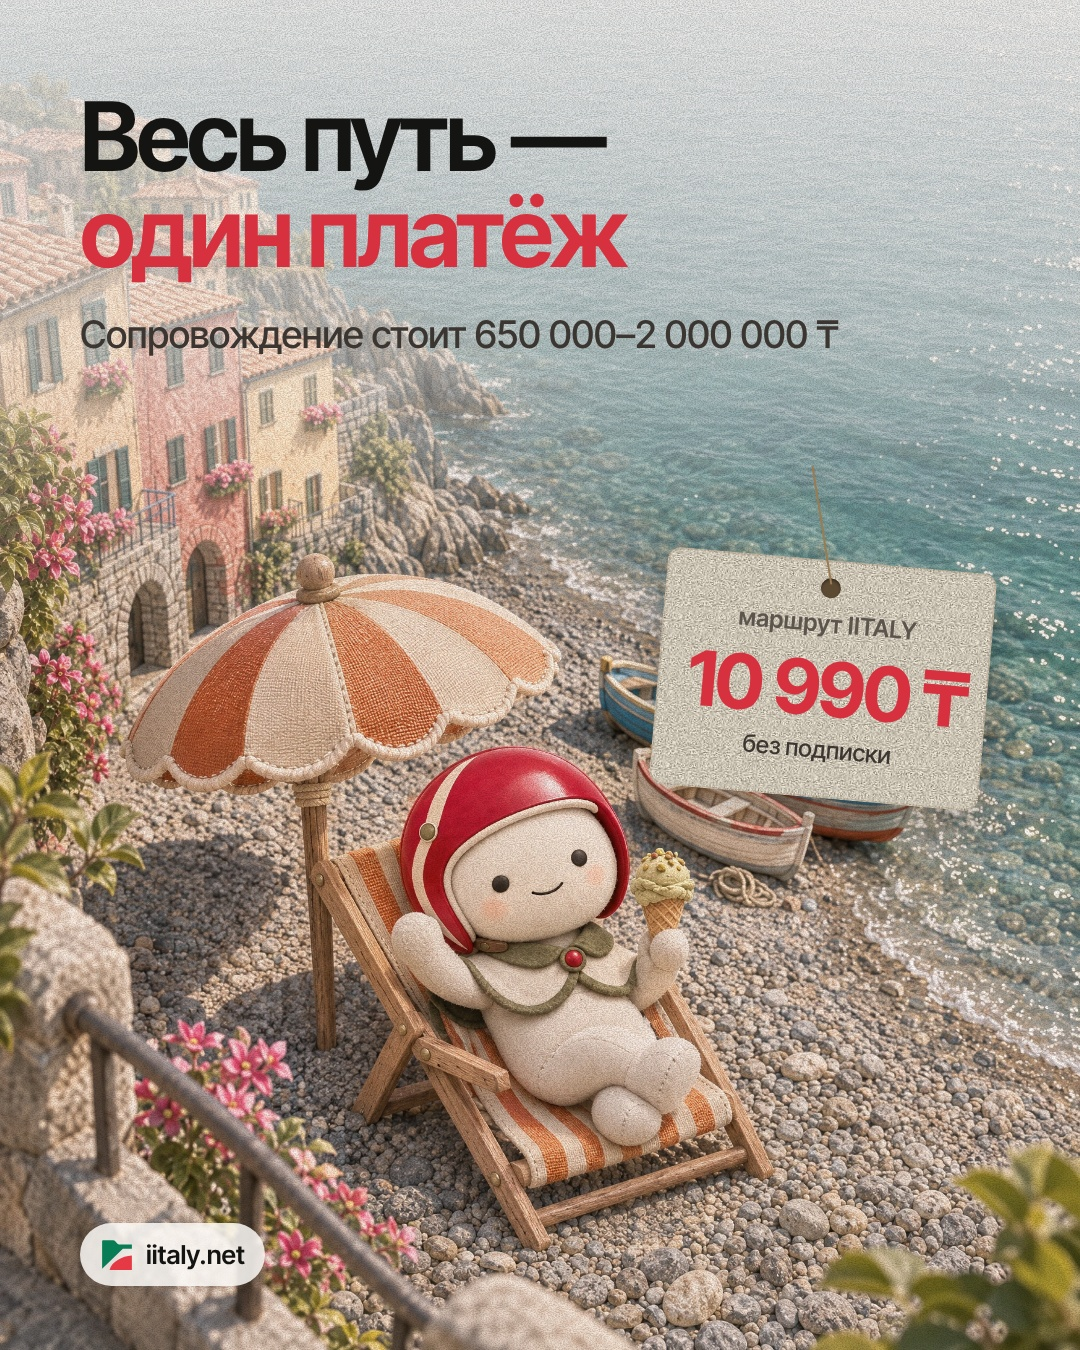
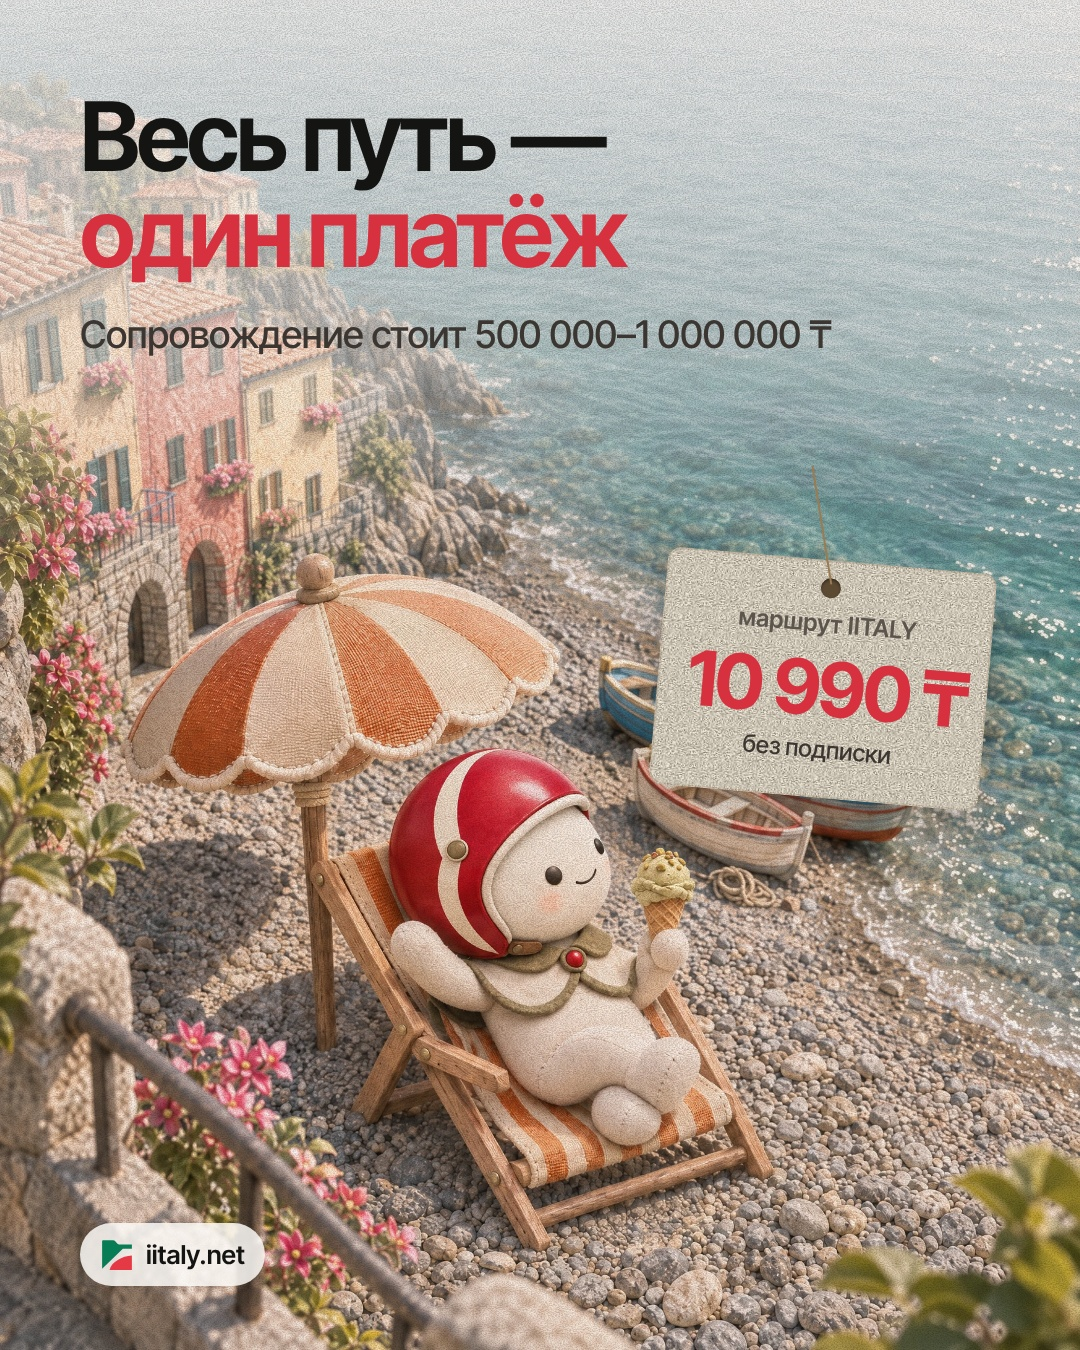
Agency range 500 000–1 000 000 ₸; Vespi looks at the sea on slide 1-5
Owner, 15 Nov: «сделай новый диапазон 500 000 — миллион». The comparison
row now reads «Сопровождение — обычно 500 000–1 000 000 ₸»; the approved
copy change in scripts/design-content.mjs, the docs, slide 1-5 and the
post 1 caption follow it.

Slide 1-5: «Веспи не должен пялиться». The Cinque Terre scene is edited so
Vespi turns his head toward the sea and the boats instead of looking into
the camera (job 0ca1c8fa…, muted like the rest of the set).

Claude-Session: https://claude.ai/code/session_01EJf3uoJW8TN46ucPCkbbdr

diff --git a/src/components/home/DocumentCheckFeature.tsx b/src/components/home/DocumentCheckFeature.tsx
@@ -22,12 +22,10 @@ import styles from "./document-check-feature.module.css";
    берут 650 000 – 1 000 000 ₸»), показать её он подтвердил 14 Nov: «Да,
    добавь». Прежняя строка «Отдельный договор с агентством» остаётся,
    цена идёт под ней: design-content сверяет весь прежний текст.
-   15 Nov верх поднят до 2 000 000 ₸ (владелец: «есть нахуй агентство за
-   2 миллиона… есть люди, которые делают за поменьше, которые просто один
-   человек, не агентство»): 650 000 ₸ — частный консультант, 2 000 000 ₸ —
-   агентство. Замена разрешена в design-content.mjs. */
+   15 Nov владелец задал новый диапазон: «сделай новый диапазон 500 000 —
+   миллион». Замена разрешена в design-content.mjs. */
 
-const AGENCY_SUPPORT = { from: 650_000, to: 2_000_000 };
+const AGENCY_SUPPORT = { from: 500_000, to: 1_000_000 };
 
 const FACTS = [
   { icon: Timer, value: "10–30 секунд", label: "обычно до ответа", note: "Без очереди и записи к менеджеру." },

diff --git a/design/social/README.md b/design/social/README.md
@@ -137,7 +137,7 @@ B и C сделаны правкой сцены A той же моделью (hi
 — стипендия DSU: посчитаем шансы по доходу семьи ещё до подачи
 — виза D пошагово
 
-Сопровождение у консультантов и агентств стоит 650 000–2 000 000 ₸. Здесь — один платёж 10 990 ₸ за весь путь, без подписки. Анкета и план — бесплатно.
+Сопровождение у консультантов и агентств стоит 500 000–1 000 000 ₸. Здесь — один платёж 10 990 ₸ за весь путь, без подписки. Анкета и план — бесплатно.
 
 Ссылка в профиле: iitaly.net
 
@@ -228,7 +228,6 @@ Alt-текст обложки: Тосканские холмы на рассве
 - **Цифры:**
   - 43 вуза в 30 городах — `src/data/italy.ts`;
   - 10 990 ₸ — `src/data/pricing.ts`;
-  - 650 000–2 000 000 ₸ за сопровождение — владелец, 15 ноября: частный
-    консультант от 650 000 ₸, агентство до 2 000 000 ₸;
+  - 500 000–1 000 000 ₸ за сопровождение — диапазон владельца с 15 ноября;
   - 10–30 секунд — замер 12 ноября на живом сервере;
   - что открыто бесплатно — таблица «бесплатно / платно» в `NEXT_CHAT.md`.

diff --git a/DESIGN.md b/DESIGN.md
@@ -1751,11 +1751,10 @@ range he has named since the start (NEXT_CHAT.md). It sits under the contract
 line rather than replacing it, because design-content checks that every
 earlier line of copy is still on the page.
 
-On 15 November the owner raised the top of the range to 2 000 000 ₸: an
-agency charges up to that, a single consultant less («есть люди, которые
-делают за поменьше… просто один человек, не агентство»). The row now reads
-«Сопровождение — обычно 650 000–2 000 000 ₸»; the swap is listed among the
-approved copy changes in `scripts/design-content.mjs`.
+On 15 November the owner set a new range («сделай новый диапазон 500 000 —
+миллион»). The row now reads «Сопровождение — обычно 500 000–1 000 000 ₸»;
+the swap is listed among the approved copy changes in
+`scripts/design-content.mjs`.
 
 ## After the UX audit: the first question, touch hover, the chat button · 14 November 2026
 

diff --git a/HANDOFF.md b/HANDOFF.md
@@ -16,8 +16,7 @@
 
 IITALY — сервис поступления в итальянские университеты для школьников из
 Казахстана 16–18 лет и их родителей. Один платёж 10 990 ₸ вместо
-650 000 – 2 000 000 ₸ у посредников (частный консультант — от 650 000 ₸,
-агентство — до 2 000 000 ₸). ИИ ведёт по маршруту: подбор вузов,
+500 000 – 1 000 000 ₸ у агентств (диапазон владельца с 15 ноября 2026). ИИ ведёт по маршруту: подбор вузов,
 документы, стипендия DSU, виза D, первые недели в Италии.
 
 **Аудитория определяет почти все технические решения:** телефон 390px,
